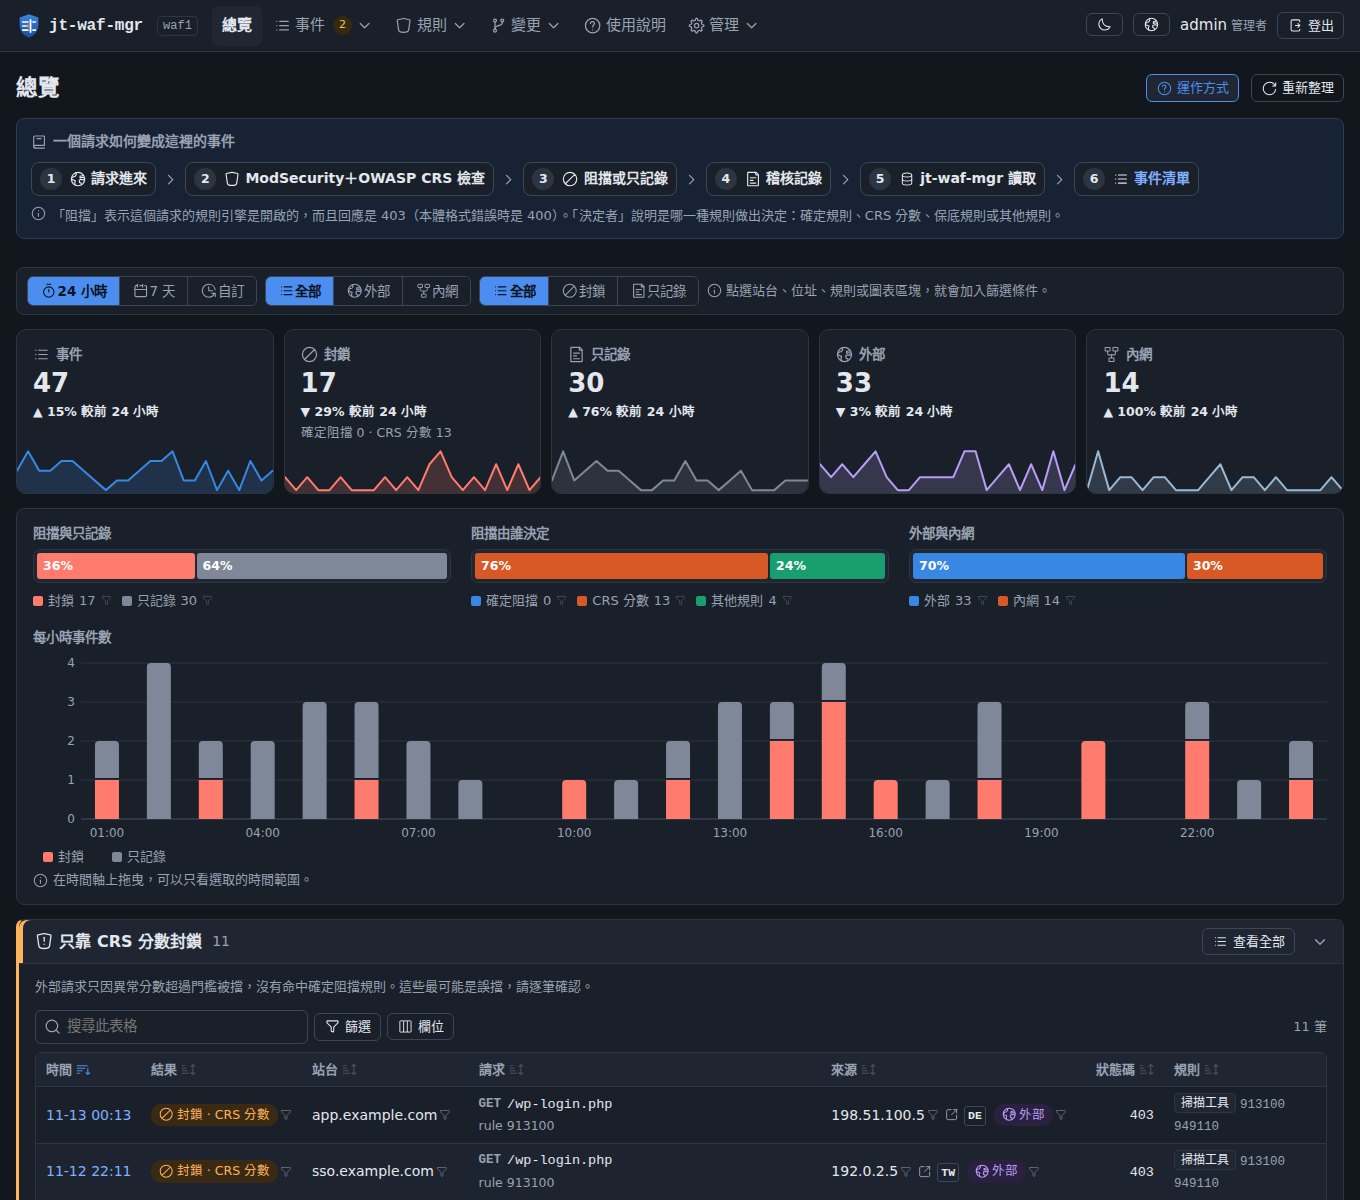
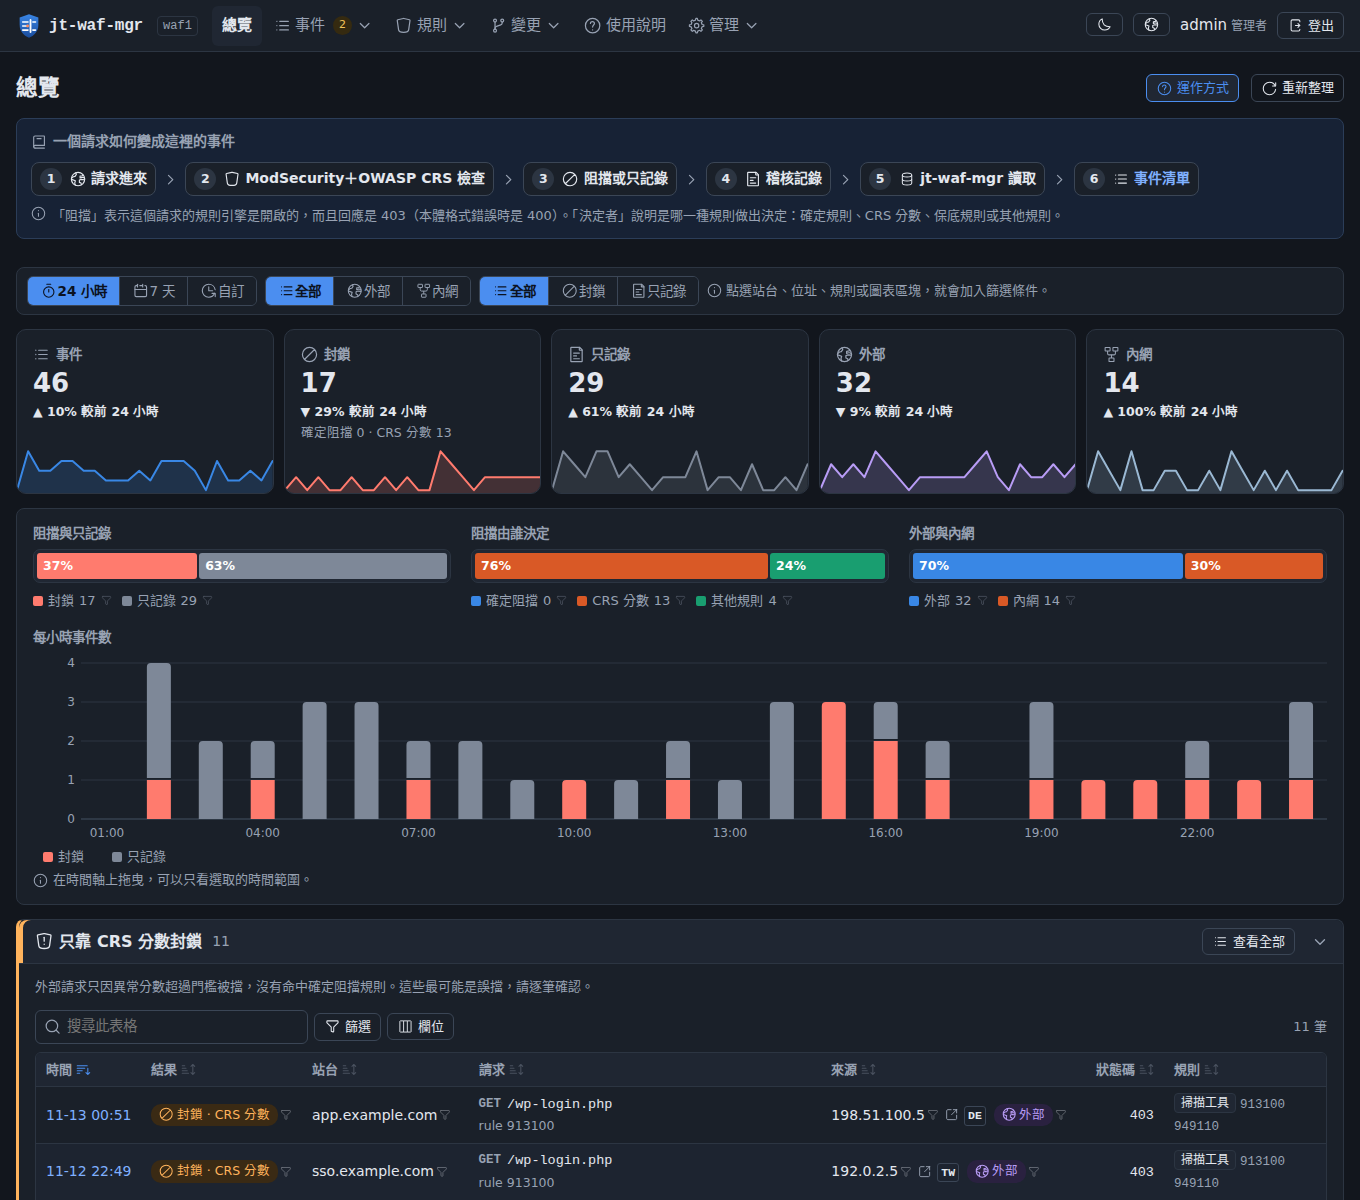
jt-waf-mgr 0.4.3: screenshots in the reader's language, documentation
- READMEs and the project site show English, Traditional Chinese and Japanese screenshots
  (synthetic test environment); the browser test checks the Japanese pages.
- A local or UDP syslog destination that cannot be reached no longer leaks a socket per retry.
- API and test plan documents for the event timeline and syslog.

diff --git a/docs/index.html b/docs/index.html
@@ -81,7 +81,7 @@ footer { padding: 30px 0 40px; color: var(--muted); font-size: 14px; border-top:
 
 <div class="hero"><div class="wrap">
   <div>
-    <h1>jt-waf-mgr <span class="ver">v0.4.2</span></h1>
+    <h1>jt-waf-mgr <span class="ver">v0.4.3</span></h1>
     <p class="lead" data-t="lead"></p>
     <div class="btns">
       <a class="btn primary" href="https://github.com/jasoncheng7115/jt-waf-mgr">GitHub</a>
@@ -91,7 +91,7 @@ footer { padding: 30px 0 40px; color: var(--muted); font-size: 14px; border-top:
     <div class="chips"><span class="chip">nginx</span><span class="chip">libmodsecurity v3</span><span class="chip">OWASP CRS 4</span>
       <span class="chip">Python 3.11+ stdlib</span><span class="chip">Vue 3</span><span class="chip">AGPL-3.0</span></div>
   </div>
-  <img class="shot" src="shots/overview.png" alt="jt-waf-mgr overview">
+  <img class="shot" src="shots/en/overview.png" data-shot="overview" alt="jt-waf-mgr overview">
 </div></div>
 
 <section id="features"><div class="wrap">
@@ -120,11 +120,11 @@ footer { padding: 30px 0 40px; color: var(--muted); font-size: 14px; border-top:
 <section id="ai"><div class="wrap two">
   <div><h2 data-t="ai_h"></h2><p class="sub" data-t="ai_sub"></p>
     <ul class="ticks"><li data-t="ai1"></li><li data-t="ai2"></li><li data-t="ai3"></li><li data-t="ai4"></li><li data-t="ai5"></li></ul></div>
-  <img class="shot" src="shots/analysis.png" alt="" style="width:100%;border-radius:10px;border:1px solid var(--border)">
+  <img class="shot" src="shots/en/analysis.png" data-shot="analysis" alt="" style="width:100%;border-radius:10px;border:1px solid var(--border)">
 </div></section>
 
 <section id="notify" class="alt"><div class="wrap two">
-  <img src="shots/notifications.png" alt="" style="width:100%;border-radius:10px;border:1px solid var(--border)">
+  <img src="shots/en/notifications.png" data-shot="notifications" alt="" style="width:100%;border-radius:10px;border:1px solid var(--border)">
   <div><h2 data-t="n_h"></h2><p class="sub" data-t="n_sub"></p>
     <div class="chips"><span class="chip">E-mail</span><span class="chip">Telegram</span><span class="chip">Microsoft Teams</span><span class="chip">Slack</span>
       <span class="chip">Discord</span><span class="chip">Zulip</span><span class="chip">Nextcloud Talk</span><span class="chip">Webhook (HMAC)</span></div>
@@ -144,12 +144,12 @@ footer { padding: 30px 0 40px; color: var(--muted); font-size: 14px; border-top:
 <section id="screens" class="alt"><div class="wrap">
   <h2 data-t="sc_h"></h2><p class="sub" data-t="sc_sub"></p>
   <div class="shots">
-    <figure><img src="shots/events.png" alt="" loading="lazy"><figcaption data-t="sc_events"></figcaption></figure>
-    <figure><img src="shots/waf-model.png" alt="" loading="lazy"><figcaption data-t="sc_waf"></figcaption></figure>
-    <figure><img src="shots/changes.png" alt="" loading="lazy"><figcaption data-t="sc_changes"></figcaption></figure>
-    <figure><img src="shots/rules.png" alt="" loading="lazy"><figcaption data-t="sc_rules"></figcaption></figure>
-    <figure><img src="shots/alerts.png" alt="" loading="lazy"><figcaption data-t="sc_alerts"></figcaption></figure>
-    <figure><img src="shots/system-check.png" alt="" loading="lazy"><figcaption data-t="sc_system"></figcaption></figure>
+    <figure><img src="shots/en/events.png" data-shot="events" alt="" loading="lazy"><figcaption data-t="sc_events"></figcaption></figure>
+    <figure><img src="shots/en/waf-model.png" data-shot="waf-model" alt="" loading="lazy"><figcaption data-t="sc_waf"></figcaption></figure>
+    <figure><img src="shots/en/changes.png" data-shot="changes" alt="" loading="lazy"><figcaption data-t="sc_changes"></figcaption></figure>
+    <figure><img src="shots/en/rules.png" data-shot="rules" alt="" loading="lazy"><figcaption data-t="sc_rules"></figcaption></figure>
+    <figure><img src="shots/en/alerts.png" data-shot="alerts" alt="" loading="lazy"><figcaption data-t="sc_alerts"></figcaption></figure>
+    <figure><img src="shots/en/system-check.png" data-shot="system-check" alt="" loading="lazy"><figcaption data-t="sc_system"></figcaption></figure>
     <figure><img src="shots/overview-dark.png" alt="" loading="lazy"><figcaption data-t="sc_dark"></figcaption></figure>
   </div>
 </div></section>
@@ -157,8 +157,8 @@ footer { padding: 30px 0 40px; color: var(--muted); font-size: 14px; border-top:
 <section id="install"><div class="wrap">
   <h2 data-t="in_h"></h2><p class="sub" data-t="in_sub"></p>
 <pre><span class="c"># verify, unpack, install</span>
-openssl dgst -sha256 -verify release-key.pem -signature jt-waf-mgr-0.4.2.tar.gz.sig jt-waf-mgr-0.4.2.tar.gz
-tar xzf jt-waf-mgr-0.4.2.tar.gz &amp;&amp; cd jt-waf-mgr-0.4.2
+openssl dgst -sha256 -verify release-key.pem -signature jt-waf-mgr-0.4.3.tar.gz.sig jt-waf-mgr-0.4.3.tar.gz
+tar xzf jt-waf-mgr-0.4.3.tar.gz &amp;&amp; cd jt-waf-mgr-0.4.3
 sudo ./install.sh
 sudo jt-waf-mgr check
 sudo jt-waf-mgr user add alice --role admin
@@ -295,6 +295,7 @@ function apply(lang) {
   document.documentElement.lang = lang
   for (const el of document.querySelectorAll('[data-t]')) el.textContent = d[el.dataset.t] || T.en[el.dataset.t] || ''
   for (const b of document.querySelectorAll('.langs button')) b.classList.toggle('on', b.dataset.lang === lang)
+  for (const img of document.querySelectorAll('img[data-shot]')) img.src = 'shots/' + lang + '/' + img.dataset.shot + '.png'
   const u = new URL(location.href); u.searchParams.set('lang', lang); history.replaceState(null, '', u)
 }
 for (const b of document.querySelectorAll('.langs button')) b.addEventListener('click', () => apply(b.dataset.lang))

diff --git a/jtwafmgr/audit.py b/jtwafmgr/audit.py
@@ -217,14 +217,22 @@ class Audit:
     def _connect(addr, proto, local, ca_file=None):
         if local:
             s = socket.socket(socket.AF_UNIX, socket.SOCK_DGRAM)
-            s.connect(addr)
+            try:
+                s.connect(addr)
+            except BaseException:
+                s.close()
+                raise
             return s
         host, _, port = addr.rpartition(':')
         host = host.strip('[]')
         if proto == 'udp':
             info = socket.getaddrinfo(host, int(port or 514), type=socket.SOCK_DGRAM)[0]
             s = socket.socket(info[0], socket.SOCK_DGRAM)
-            s.connect(info[4])
+            try:
+                s.connect(info[4])
+            except BaseException:
+                s.close()
+                raise
             return s
         s = socket.create_connection((host, int(port or (6514 if proto == 'tls' else 514))), timeout=2)
         if proto == 'tls':

diff --git a/jtwafmgr/__init__.py b/jtwafmgr/__init__.py
@@ -1,3 +1,3 @@
 """jt-waf-mgr: web management for nginx + libmodsecurity v3 + OWASP CRS."""
-__version__ = '0.4.2'
+__version__ = '0.4.3'
 SOURCE_URL = 'https://github.com/jasoncheng7115/jt-waf-mgr'

diff --git a/TEST_PLAN.md b/TEST_PLAN.md
@@ -29,7 +29,7 @@ short form used while releasing; this document says what each gate covers, how i
 |---|---|---|
 | G1 Unit and integration | `python3 -m unittest discover -s tests -t .` | all pass (also run by `make_release.sh`) |
 | G2 Build | `tools/build_frontend.sh` | build OK; `check_i18n` (3 languages, no full-width slash, no product name); `check_ui` (icons on buttons and card titles, no native select / date, tables via DataTable) |
-| G3 Publication | `python3 tools/preflight.py` | no private names, addresses or secrets in what is published |
+| G3 Publication | `python3 tools/preflight.py` | no private names, addresses or secrets in what is published (screenshots: no PNG text chunks); README in three languages with the version in the title and language links |
 | G4 Browser end to end | `tools/e2e/run.sh <dir>` | every page in zh-TW and en, light and dark; theme / language menus; sorting, filtering, columns, paging; select box, date picker; charts and tooltips; guide; login page; no console errors, no raw i18n keys, no button without icon |
 | G5 Security checks | part of `tools/e2e/run.sh` (`tools/security_scan.py`) | 0 failed: headers, cookies, authentication on every route, authorisation (viewer, API token, source network), CSRF, methods, traversal, hostile input on every GET route (no 5xx), malformed bodies, login (same error, lockout, no open redirect, Host header) |
 | G6 DAST (OWASP ZAP) | `tools/zap_scan.py` | logged-in passive and active scan of a disposable instance; URLs seen ≥ 40; no High / Medium / Low alert that is not accepted in `deploy/zap-baseline.conf` |
@@ -68,6 +68,10 @@ short form used while releasing; this document says what each gate covers, how i
   audit, redirects refused, secrets scrubbed from errors and audit, rate limit, obsolete approval requests
   skipped, settings validation and bound secrets, API roles. Alerts: dedup, handle once, reminders.
 - Audit coverage: every write route audits (`TestAuditCoverage`).
+- Syslog: RFC 3164 / 5424 over UDP and TCP (octet counting), requests never wait for the network, records kept and
+  resent after an outage, a TLS / connection error never drops records, an unsendable record does not block the
+  queue, a syslog settings change is sent with the previous settings, the CA file is not a web setting.
+- Tests leave no temporary directory behind.
 
 ## 5. Security testing (G5, G6, G13)
 

diff --git a/README_ja.md b/README_ja.md
@@ -1,4 +1,4 @@
-# jt-waf-mgr v0.4.2
+# jt-waf-mgr v0.4.3
 
 [English](README.md) · [繁體中文](README_zh-TW.md) · **日本語**
 
@@ -18,7 +18,7 @@
 >
 > Jason Tools Co., Ltd. · ライセンス：AGPL-3.0
 
-![概要](images/overview.png)
+![概要](docs/shots/ja/overview.png)
 
 ---
 
@@ -68,9 +68,9 @@ JSON 監査ログを読み、ファイルを手で編集する必要がありま
 
 | | |
 |---|---|
-| ![イベント](images/events.png) | ![WAF 判定フロー](images/waf-model.png) |
-| ![イベント分析](images/analysis.png) | ![通知](images/notifications.png) |
-| ![アラート](images/alerts.png) | ![システムチェック](images/system-check.png) |
+| ![イベント](docs/shots/ja/events.png) | ![WAF 判定フロー](docs/shots/ja/waf-model.png) |
+| ![イベント分析](docs/shots/ja/analysis.png) | ![通知](docs/shots/ja/notifications.png) |
+| ![アラート](docs/shots/ja/alerts.png) | ![システムチェック](docs/shots/ja/system-check.png) |
 
 ## 要件
 
@@ -83,8 +83,8 @@ JSON 監査ログを読み、ファイルを手で編集する必要がありま
 ## インストール
 
 ```sh
-openssl dgst -sha256 -verify release-key.pem -signature jt-waf-mgr-0.4.2.tar.gz.sig jt-waf-mgr-0.4.2.tar.gz
-tar xzf jt-waf-mgr-0.4.2.tar.gz && cd jt-waf-mgr-0.4.2
+openssl dgst -sha256 -verify release-key.pem -signature jt-waf-mgr-0.4.3.tar.gz.sig jt-waf-mgr-0.4.3.tar.gz
+tar xzf jt-waf-mgr-0.4.3.tar.gz && cd jt-waf-mgr-0.4.3
 sudo ./install.sh                             # 先にすべてのファイルとリリース署名を検証
 sudo jt-waf-mgr check                         # nginx / ModSecurity 設定を解析
 sudo jt-waf-mgr user add alice --role admin   # 一時パスワードを表示

diff --git a/docs/dev/ui-api-notify.md b/docs/dev/ui-api-notify.md
@@ -102,3 +102,25 @@ its status and a short reason from a JSON body.
 
 `GET /overview?range=custom&since=<RFC 3339>&until=<RFC 3339>`: 1 hour to 31 days; the timeline counts hours up to
 7 days and local days beyond (`bucket_seconds` in the answer).
+
+`GET /events/timeline?<event filters>&since=&until=` (viewer, token `events:read`): the event list's timeline with the
+same filters; default the last 7 days, at most 31 (`clamped: true` when cut), hours up to 7 days, local days beyond.
+```json
+{"since": "…", "until": "…", "bucket_seconds": 3600, "clamped": false, "max_days": 31,
+ "timeline": [{"t": "…", "blocked": 2, "logged": 5, "external": 6, "internal": 1}]}
+```
+
+## Syslog (0.4.1)
+
+Settings (`PATCH /settings/ui`, admin): `syslog.enabled`, `syslog.address` (`/dev/log` or `host:port`, port 1–65535),
+`syslog.protocol` (`udp` | `tcp` | `tls`), `syslog.format` (`rfc3164` | `rfc5424`), `syslog.facility`. `[syslog] ca_file`
+(a CA bundle for TLS) is set in config.toml only.
+
+- Records are queued and sent by a background thread: a request never waits for the network. While the destination is
+  unreachable they are kept (up to 5,000, then the oldest are dropped and counted) and retried every 30 seconds.
+- RFC 5424: `<PRI>1 TIMESTAMP HOST jt-waf-mgr PID audit - {"jt_waf_mgr": {...}}`; over TCP / TLS with octet-counting
+  framing (RFC 6587). RFC 3164 over TCP / TLS ends each record with a line feed. The JSON is ASCII-only (control
+  characters and newlines escaped): one record is one line.
+- A change of a `syslog.*` setting is audited before it applies and sent with the previous settings (switching syslog
+  off is critical), so the SIEM always sees where its copy went.
+

diff --git a/README_zh-TW.md b/README_zh-TW.md
@@ -1,4 +1,4 @@
-# jt-waf-mgr v0.4.2
+# jt-waf-mgr v0.4.3
 
 [English](README.md) · **繁體中文** · [日本語](README_ja.md)
 
@@ -18,7 +18,7 @@
 >
 > Jason Tools Co., Ltd. · 授權：AGPL-3.0
 
-![總覽](images/overview.png)
+![總覽](docs/shots/zh-TW/overview.png)
 
 ---
 
@@ -64,9 +64,9 @@ jt-waf-mgr 把稽核記錄變成看得懂的畫面，把每一次修改變成可
 
 | | |
 |---|---|
-| ![事件](images/events.png) | ![WAF 判斷流程](images/waf-model.png) |
-| ![事件分析](images/analysis.png) | ![通知](images/notifications.png) |
-| ![待處理警示](images/alerts.png) | ![系統檢查](images/system-check.png) |
+| ![事件](docs/shots/zh-TW/events.png) | ![WAF 判斷流程](docs/shots/zh-TW/waf-model.png) |
+| ![事件分析](docs/shots/zh-TW/analysis.png) | ![通知](docs/shots/zh-TW/notifications.png) |
+| ![待處理警示](docs/shots/zh-TW/alerts.png) | ![系統檢查](docs/shots/zh-TW/system-check.png) |
 
 ## 需求
 
@@ -78,8 +78,8 @@ jt-waf-mgr 把稽核記錄變成看得懂的畫面，把每一次修改變成可
 ## 安裝
 
 ```sh
-openssl dgst -sha256 -verify release-key.pem -signature jt-waf-mgr-0.4.2.tar.gz.sig jt-waf-mgr-0.4.2.tar.gz
-tar xzf jt-waf-mgr-0.4.2.tar.gz && cd jt-waf-mgr-0.4.2
+openssl dgst -sha256 -verify release-key.pem -signature jt-waf-mgr-0.4.3.tar.gz.sig jt-waf-mgr-0.4.3.tar.gz
+tar xzf jt-waf-mgr-0.4.3.tar.gz && cd jt-waf-mgr-0.4.3
 sudo ./install.sh                             # 先驗證每個檔案與發行檔簽章
 sudo jt-waf-mgr check                         # 解析 nginx / ModSecurity 設定
 sudo jt-waf-mgr user add alice --role admin   # 印出臨時密碼

diff --git a/README.md b/README.md
@@ -1,4 +1,4 @@
-# jt-waf-mgr v0.4.2
+# jt-waf-mgr v0.4.3
 
 **English** · [繁體中文](README_zh-TW.md) · [日本語](README_ja.md)
 
@@ -18,7 +18,7 @@
 >
 > By Jason Tools Co., Ltd. · License: AGPL-3.0
 
-![Overview](images/overview.png)
+![Overview](docs/shots/en/overview.png)
 
 ---
 
@@ -74,9 +74,9 @@ something you can read, and every change into a workflow you can trust:
 
 | | |
 |---|---|
-| ![Events](images/events.png) | ![WAF model](images/waf-model.png) |
-| ![Event analysis](images/analysis.png) | ![Notifications](images/notifications.png) |
-| ![Alerts](images/alerts.png) | ![System check](images/system-check.png) |
+| ![Events](docs/shots/en/events.png) | ![WAF model](docs/shots/en/waf-model.png) |
+| ![Event analysis](docs/shots/en/analysis.png) | ![Notifications](docs/shots/en/notifications.png) |
+| ![Alerts](docs/shots/en/alerts.png) | ![System check](docs/shots/en/system-check.png) |
 
 ## Requirements
 
@@ -90,8 +90,8 @@ something you can read, and every change into a workflow you can trust:
 ## Install
 
 ```sh
-openssl dgst -sha256 -verify release-key.pem -signature jt-waf-mgr-0.4.2.tar.gz.sig jt-waf-mgr-0.4.2.tar.gz
-tar xzf jt-waf-mgr-0.4.2.tar.gz && cd jt-waf-mgr-0.4.2
+openssl dgst -sha256 -verify release-key.pem -signature jt-waf-mgr-0.4.3.tar.gz.sig jt-waf-mgr-0.4.3.tar.gz
+tar xzf jt-waf-mgr-0.4.3.tar.gz && cd jt-waf-mgr-0.4.3
 sudo ./install.sh                             # verifies every file and the release signature first
 sudo jt-waf-mgr check                         # parses the nginx / ModSecurity configuration
 sudo jt-waf-mgr user add alice --role admin   # prints a temporary password

diff --git a/TEST_CHECKLIST.md b/TEST_CHECKLIST.md
@@ -8,7 +8,9 @@ What each gate covers and how it passes: `TEST_PLAN.md`.
 - [ ] `python3 -m unittest discover -s tests -t .` — all pass (also run by `tools/make_release.sh`).
 - [ ] `tools/build_frontend.sh` — build, `check_i18n` (three languages, no full-width slash) and `check_ui`
       (icons on buttons, no native select / date inputs, tables through DataTable) all OK.
-- [ ] `python3 tools/preflight.py` — publication checks (private names, addresses, secrets) OK.
+- [ ] `python3 tools/preflight.py` — publication checks (private names, addresses, secrets) OK; it also checks that
+      README.md / README_zh-TW.md / README_ja.md have the new version in their title (update them and docs/index.html).
+- [ ] README screenshots refreshed from the browser test when the UI changed (`docs/shots/{en,zh-TW,ja}/`).
 
 ## 2. Browser
 - [ ] `tools/e2e/run.sh` — every page in zh-TW and en, light and dark, the theme switch, sorting /

diff --git a/CHANGELOG.md b/CHANGELOG.md
@@ -1,5 +1,12 @@
 # Changelog
 
+## 0.4.3 (2026-11-13)
+
+- READMEs and the project site show the interface in the reader's language (English, Traditional Chinese and
+  Japanese screenshots, all from the synthetic test environment); the browser test checks the Japanese pages too.
+- A local or UDP syslog destination that cannot be reached no longer leaves a socket open on every retry.
+- API and test plan documents: event timeline, syslog settings and behaviour.
+
 ## 0.4.2 (2026-11-13)
 
 - Syslog over TLS can trust a SIEM's own certificate authority: `[syslog] ca_file` in config.toml (root only,
